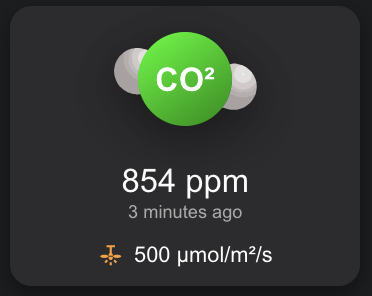
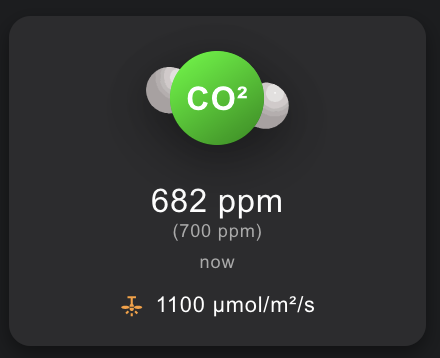
Added additional config options; Fixed bug in calculation; Added desired ppm value to card

diff --git a/co2Card.min.js b/co2Card.min.js
@@ -258,11 +258,13 @@ class CustomCo2Card extends HTMLElement {
 
         if (isNaN(co2Value)) return 'linear-gradient(145deg, #808080, #505050)'; // Gray for invalid values
 
-        if (co2Value >= range && co2Value <= range) {
-            const diff = Math.abs(range.co2Ideal - co2Value);
-            if (diff < rangeGreen) {
+        // 700
+
+        if (co2Value <= range || co2Value >= range) {
+            const diff = Math.abs(range - co2Value);
+            if (diff <= rangeGreen) {
                 return 'linear-gradient(145deg, #00FF00, #008800)'; // Green (ideal range)
-            } else if (diff >= rangeYellow && rangeYellow <= 150) {
+            } else if (diff > rangeGreen && diff < rangeYellow) {
                 return 'linear-gradient(145deg, #FFFF00, #FFA500)'; // Yellow (moderate deviation)
             } else {
                 return 'linear-gradient(145deg, #FF0000, #B00000)'; // Red (extreme deviation)
